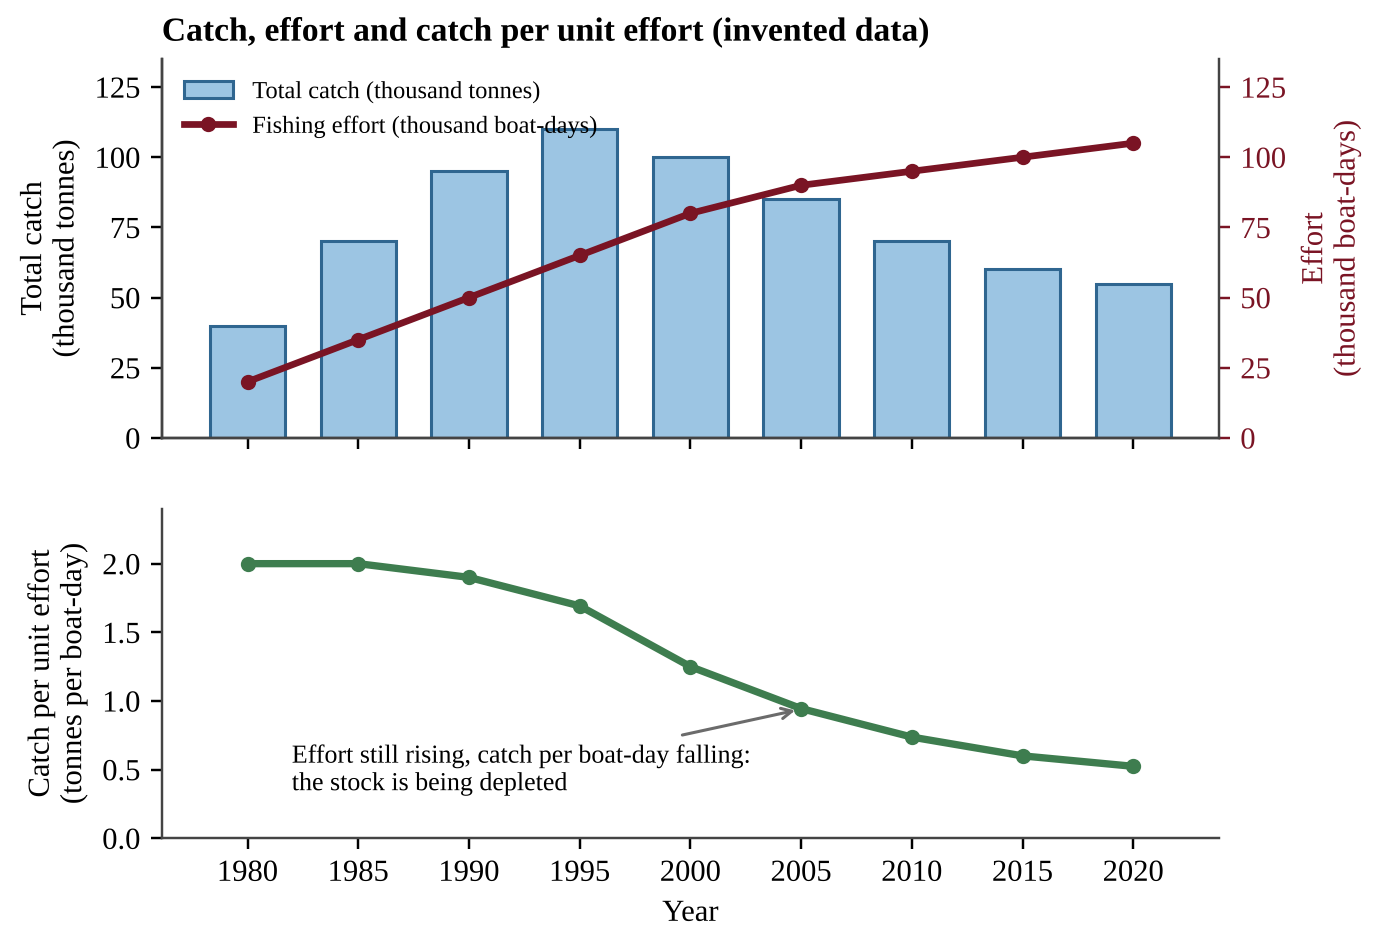
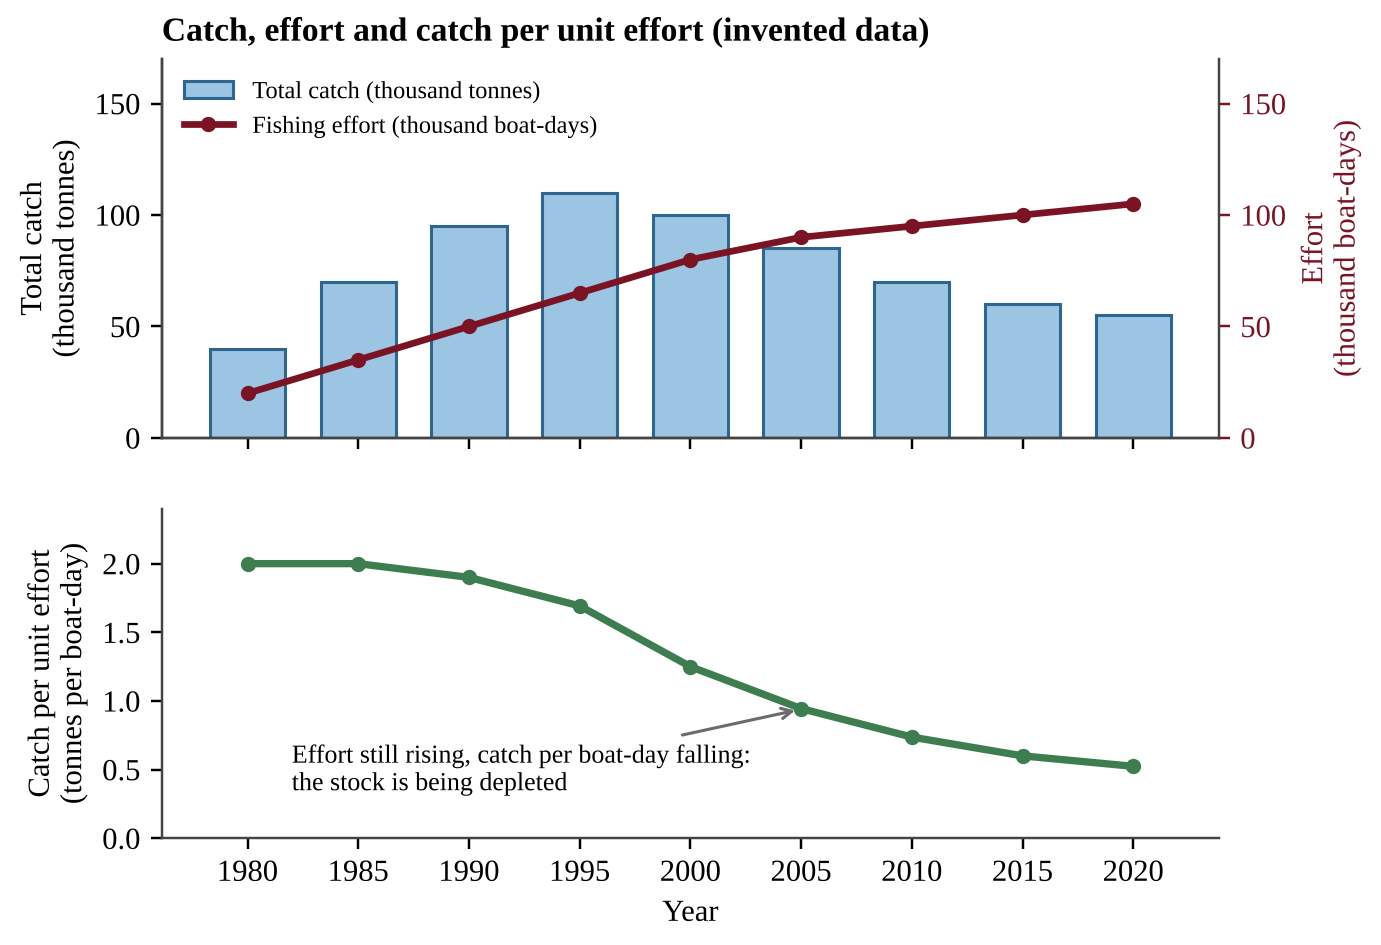
APES collection: predicted exam verification (exams 2 and 4) and gap-audit progress
Claude-Session: https://claude.ai/code/session_01CafxVKKbR2Jmkqd1sfVQsX

diff --git a/apes_project/content/book1/figs/gap_U5_make.py b/apes_project/content/book1/figs/gap_U5_make.py
@@ -10,10 +10,10 @@ catch=np.array([40,70,95,110,100,85,70,60,55])    # thousand tonnes
 cpue=catch/eff
 fig,(a,b)=plt.subplots(2,1,figsize=(6.2,4.6),sharex=True,gridspec_kw={'height_ratios':[1.15,1]})
 a.bar(yr,catch,width=3.4,color=SKY,edgecolor=BLUE,label='Total catch (thousand tonnes)')
-a.set_ylabel('Total catch\n(thousand tonnes)'); a.set_ylim(0,135)
+a.set_ylabel('Total catch\n(thousand tonnes)'); a.set_ylim(0,170)
 a2=a.twinx(); a2.spines['right'].set_visible(True)
 a2.plot(yr,eff,color=RED,lw=2.2,marker='o',ms=4,label='Fishing effort (thousand boat-days)')
-a2.set_ylabel('Effort\n(thousand boat-days)',color=RED); a2.set_ylim(0,135); a2.tick_params(axis='y',colors=RED)
+a2.set_ylabel('Effort\n(thousand boat-days)',color=RED); a2.set_ylim(0,170); a2.tick_params(axis='y',colors=RED)
 a.set_title('Catch, effort and catch per unit effort (invented data)',loc='left')
 h1,l1=a.get_legend_handles_labels(); h2,l2=a2.get_legend_handles_labels()
 a.legend(h1+h2,l1+l2,loc='upper left',frameon=False,fontsize=8)

diff --git a/apes_project/content/book2/PE3.md b/apes_project/content/book2/PE3.md
@@ -424,7 +424,7 @@ D) Geothermal plants must be located near coal or gas deposits that supply the h
 Which environmental concern is most directly associated with hydraulic fracturing (fracking) to obtain natural gas?
 A) Release of radioactive spent fuel rods into nearby surface waters
 B) Thermal pollution from the cooling water of steam turbines
-C) Large water use and possible groundwater contamination by fracturing fluid or wastewater
+C) Large water use and possible groundwater contamination by fracturing fluid
 D) Acid mine drainage from open-pit excavation of the shale
 :::
 
@@ -483,7 +483,7 @@ D) Surface air warms and rises, carrying pollutants into the stratosphere.
 :::q PE3-MCQ053 | unit=7 | topic=7.5 | diff=1
 Which statement about radon-222 is accurate?
 A) It is a gas from incomplete combustion that binds to hemoglobin and causes oxygen deprivation.
-B) It is a radioactive gas from natural uranium decay that builds up in basements and raises lung cancer risk.
+B) It is a radioactive gas from uranium decay that collects in basements and raises lung cancer risk.
 C) It is a volatile organic compound released by new carpets and paints that irritates the eyes.
 D) It is a fungal spore that grows on damp building materials and triggers allergies and asthma.
 :::
@@ -532,7 +532,7 @@ The graph shows hourly concentrations of nitrogen oxides and ozone at an urban s
 Which best explains why ozone peaks in the early afternoon rather than during the morning rush hour?
 A) Vehicles emit ozone directly from their tailpipes, and traffic is heaviest in the afternoon.
 B) A thermal inversion forms at midday and traps the ozone near the ground until evening.
-C) Sunlight drives reactions of NO₂ and volatile organic compounds that form ozone, which takes hours to build up.
+C) Sunlight drives reactions of NO₂ and volatile organic compounds that form ozone slowly.
 D) Ozone from the stratosphere sinks to the surface once the morning traffic has ended.
 :::
 
@@ -620,7 +620,7 @@ Biologists sampled male fish at sites along a river that receives treated wastew
 | 15 km downstream | 9 |
 
 Which conclusion is best supported by the data?
-A) Something in the treated wastewater likely disrupts hormones in fish, with the effect weakening downstream; the chemical is not identified.
+A) Something in the treated wastewater likely disrupts hormones in fish, and the effect weakens downstream.
 B) The data prove that estrogen from birth control pills is the specific cause of the effect on the fish.
 C) The data show that conventional wastewater treatment removes all endocrine-disrupting compounds.
 D) Because some upstream males are affected, endocrine disruptors are unrelated to the wastewater discharge.
@@ -675,7 +675,7 @@ Which statement best explains the pattern?
 A) The yearly cycle reflects changes in solar output, while the long-term rise reflects seasonal plant growth and decay.
 B) The yearly cycle is caused by ocean upwelling, while the long-term rise reflects increased volcanic eruptions worldwide.
 C) The yearly cycle is measurement error, while the long-term rise shows that natural sources are the main cause.
-D) The yearly cycle reflects seasonal plant uptake and respiration, while the long-term rise reflects fossil fuel burning and land clearing.
+D) The yearly cycle reflects seasonal plant uptake, while the long-term rise reflects fossil fuel burning and land clearing.
 :::
 
 :::q PE3-MCQ072 | unit=9 | topic=9.5 | diff=2
@@ -743,7 +743,7 @@ Researchers hypothesize that grazing by native antelope limits the establishment
 A) Compare shrub density in one fenced plot and one unfenced plot at a single site after several years.
 B) Count shrubs along random transects and correlate shrub density with counts of antelope dung along each.
 C) Remove all shrubs from the fenced plots only and compare grass cover in fenced and unfenced plots.
-D) Set up paired fenced and unfenced plots at several similar sites, seed all plots equally, and compare seedling survival.
+D) Set up paired fenced and unfenced plots at several sites, seed them equally, and compare seedling survival.
 :::
 
 :::q PE3-MCQ080 | unit=9 | topic=9.1 | diff=3
@@ -751,7 +751,7 @@ The Antarctic ozone hole forms each September and October, not during the dark p
 A) Chlorine forms only in sunlight, so ozone is lost evenly throughout the entire summer and autumn.
 B) Spring warming releases CFCs from melting ice, and the released CFCs immediately destroy ozone.
 C) Winter winds carry CFCs to the equator, from which they return to the pole in spring.
-D) Winter cold forms polar stratospheric clouds that activate chlorine, and spring sunlight then drives ozone destruction.
+D) Winter cold forms polar stratospheric clouds that activate chlorine; spring sunlight then destroys ozone.
 :::
 
 ## Section II — Free-Response Questions (3)

diff --git a/apes_project/content/book2/PE4.md b/apes_project/content/book2/PE4.md
@@ -206,7 +206,7 @@ A country has had a total fertility rate of about 1.3 for several decades and ha
 A) The population will double within the next two decades because of momentum.
 B) The proportion of children will rise, causing overcrowded schools in most cities.
 C) The country will move back to stage 2 of the demographic transition.
-D) The share of older adults will rise while the working-age group shrinks, raising the burden on workers.
+D) The share of older adults will rise as the working-age group shrinks.
 :::
 
 :::q PE4-MCQ020 | unit=3 | topic=3.9 | diff=3
@@ -454,7 +454,7 @@ D) Oil, hydropower, uranium
 :::q PE4-MCQ043 | unit=6 | topic=6.7 | diff=1
 A county in a desert region proposes to meet part of its transportation fuel needs with ethanol made from irrigated corn. Which is a potential disadvantage of this plan?
 
-A) Cropland and irrigation water may shift from food to fuel, raising food prices and water demand.
+A) Cropland and irrigation water may shift from food to fuel.
 B) Burning ethanol releases radioactive waste that must be stored for centuries.
 C) Corn plants cannot absorb CO₂ from the atmosphere during photosynthesis.
 D) Ethanol contains no usable energy compared with gasoline or diesel.
@@ -571,7 +571,7 @@ In winter, a basin city sits under a layer of warm air that lies above colder ai
 A) Cold surface air rises quickly and carries pollutants into the stratosphere.
 B) Strong winter sunlight causes the pollutants to react faster than they are emitted.
 C) Warm surface air spreads the pollutants evenly through the troposphere.
-D) The warm layer above the cold surface air stops vertical mixing, trapping pollutants near the ground.
+D) The warm layer above stops vertical mixing, trapping pollutants.
 :::
 
 :::q PE4-MCQ056 | unit=7 | topic=7.4 | diff=2
@@ -580,7 +580,7 @@ Smoke from a large boreal wildfire raises the concentration of PM2.5 in a city 8
 A) The particles are large enough to be trapped easily by nose hairs.
 B) The particles are radioactive and cause cancer within hours.
 C) The particles convert to ozone in the stratosphere and thin the ozone layer.
-D) The particles are small enough to penetrate deep into the lungs and may enter the bloodstream.
+D) The particles are small enough to reach deep into the lungs.
 :::
 
 :::q PE4-MCQ057 | unit=7 | topic=7.5 | diff=2

diff --git a/apes_project/content/audit/verify_PE4.md b/apes_project/content/audit/verify_PE4.md
@@ -1,0 +1,17 @@
+# Verification report: PE4 (Predicted Practice Exam 4)
+
+**Items checked:** 80 MCQ + 3 FRQ; 83 solution blocks, IDs match one-to-one and in order with the questions file; 20 figure PNGs viewed (18 MCQ + 2 FRQ).
+
+**Unit mix (MCQ):** U1 6, U2 5, U3 10, U4 10, U5 10, U6 10, U7 7, U8 7, U9 15 (total 80). Matches the requested mix exactly; no deviation.
+
+**Blind answer check:** 80/80 agreement (100%). Key distribution A 20, B 20, C 20, D 20. All calculations recomputed (e.g., Q15 1.6%, Q21 K = 7, Q31 4.5 x 10^6 m3, Q40 351,000 kg, Q41 9.1%, Q50 1.1 x 10^6 t, Q58 4,800 t, Q65 30 yr, Q73 about 15%, Q78 10.4 Mt/yr). Only soft note: Q79 (negative feedback = increased outgoing IR) is correct but the least familiar of the options; kept as is.
+
+**Disagreements:** none.
+
+**FRQ audit:** Points sum to 10 for each (FRQ1 1+1+2+1+2+1+2; FRQ2 1+1+1+2+2+1+2; FRQ3 1+1+2+1+1+1+3). Arithmetic verified: FRQ2 2.2 ppm/yr, 45.2%, 461 ppm in 2040; FRQ3 1.2 x 10^6 L, 3,840 t, 3,336 t (13.1% reduction), 200 ha, 1.1 x 10^6 m3. Every part answered with a sensible scoring idea. No errors found; no FRQ edits.
+
+**Figures:** all 20 exist, are legible, unclipped and consistent with the stems (Q4 pyramid gives 10% and 60 kJ; Q11 species X dead at 31 C; Q30 point P is El Nino; Q51 net energy 3 vs 11 MJ; Q64 LD50 about 8 vs 120). No problems.
+
+**Distractor rebalancing (4 edits, wording only, answers unchanged):** Q19 D, Q43 A, Q55 D, Q56 D shortened so the correct option is no longer conspicuously the longest.
+
+**Unresolved:** none.
